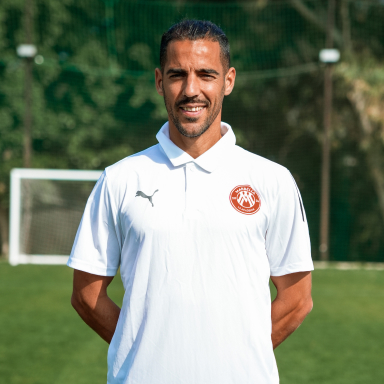
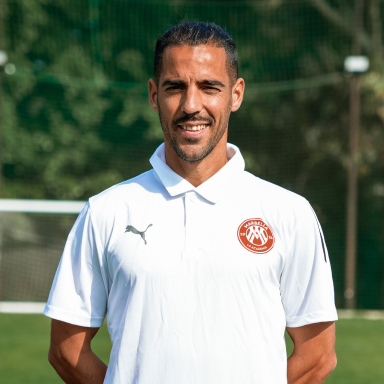
coaches upd

diff --git a/our-coaches.html b/our-coaches.html
@@ -93,13 +93,12 @@
         </div>
         -->
         <div class="section__coaches_card">
-          <img src="./images/coaches/Henrique_Catanha.jpg" alt="Henrique Catanha" class="section__coaches_image">
+          <img src="./images/coaches/German_Ruiz.jpg" alt="Henrique Catanha" class="section__coaches_image">
           <div class="section__coach_card-textBlock">
-            <h3 class="section__coach_card-name">Henrique Catanha</h3>
-            <p class="section__coach_card-role">Coach</p>
-            <p class="section__coach_card-license">UEFA Pro</p>
-            <p class="section__coach_card-text">Former professional player for Málaga CF, Celta de Vigo, and the Spanish national team.</p>
-            <p class="section__coach_card-text">Coaching experience includes roles at Zenit Torremolinos, UD San Andrés, CD Nerja, Marbella FC, and Vélez CF. Specializes in high-performance and technical training.</p>
+            <h3 class="section__coach_card-name">Germán Ruiz</h3>
+            <p class="section__coach_card-role">Sporting Director</p>
+            <p class="section__coach_card-text">Former offensive midfielder trained in top Spanish academies, including Cádiz CF, Málaga CF, and Valencia CF. Champion of Spain U19 with Málaga CF and top scorer at national youth level. Earned call-ups by Spain U19 national team under Luis de la Fuente. Played in Poland’s 1st and 2nd divisions.
+              <p class="section__coach_card-text">Holds Master’s degrees in Sports Management, Sports Analysis (RFAF), and Injury Rehabilitation. Specialist in player development, with experience training academy and professional players.</p>
           </div>
         </div>
         <!--
